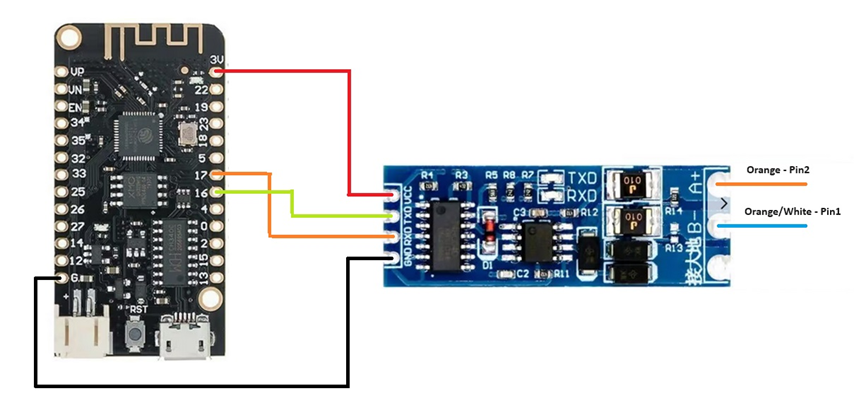
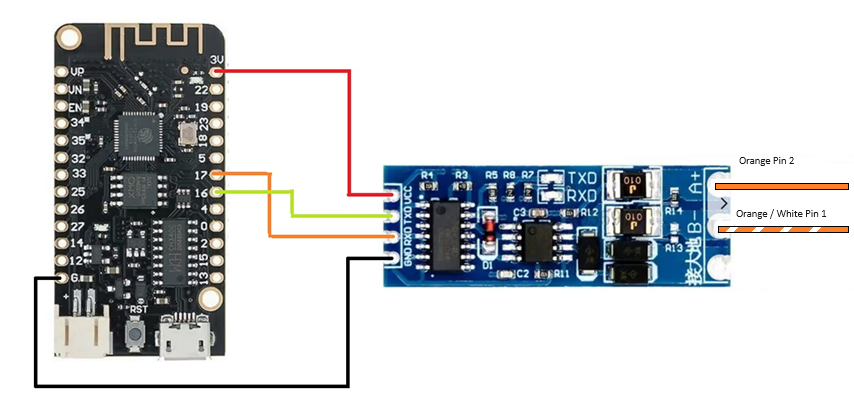
Updated page with wiring diagrams

Changed region(s): [[0.822, 0.5062, 1.0, 0.5955], [0.822, 0.3871, 1.0, 0.4764]]

diff --git a/SunSynk Local Control/README.md b/SunSynk Local Control/README.md
@@ -26,7 +26,7 @@ I also created a 3D printed box which can be downloaded from here https://www.th
 
 ## Connections.
 
-![Wiring](Wiring.png)
+![Wiring.png](Wiring.png)
 
 ## 5.5kW & 8.5kW with combind BMS 2in1 Port.
 
@@ -65,7 +65,11 @@ Pin7 = Brown/White = (B)
 
 You should in this case use these pins and coloured cables
 
-![Alt text](alternative.jpg)
+## Alternative Connections.
+
+![Alternative RJ45](alternative.jpg)
+
+![Alternative wiring](<Alternative wiring.png>)
 
 ## Inverter Settings.
 
